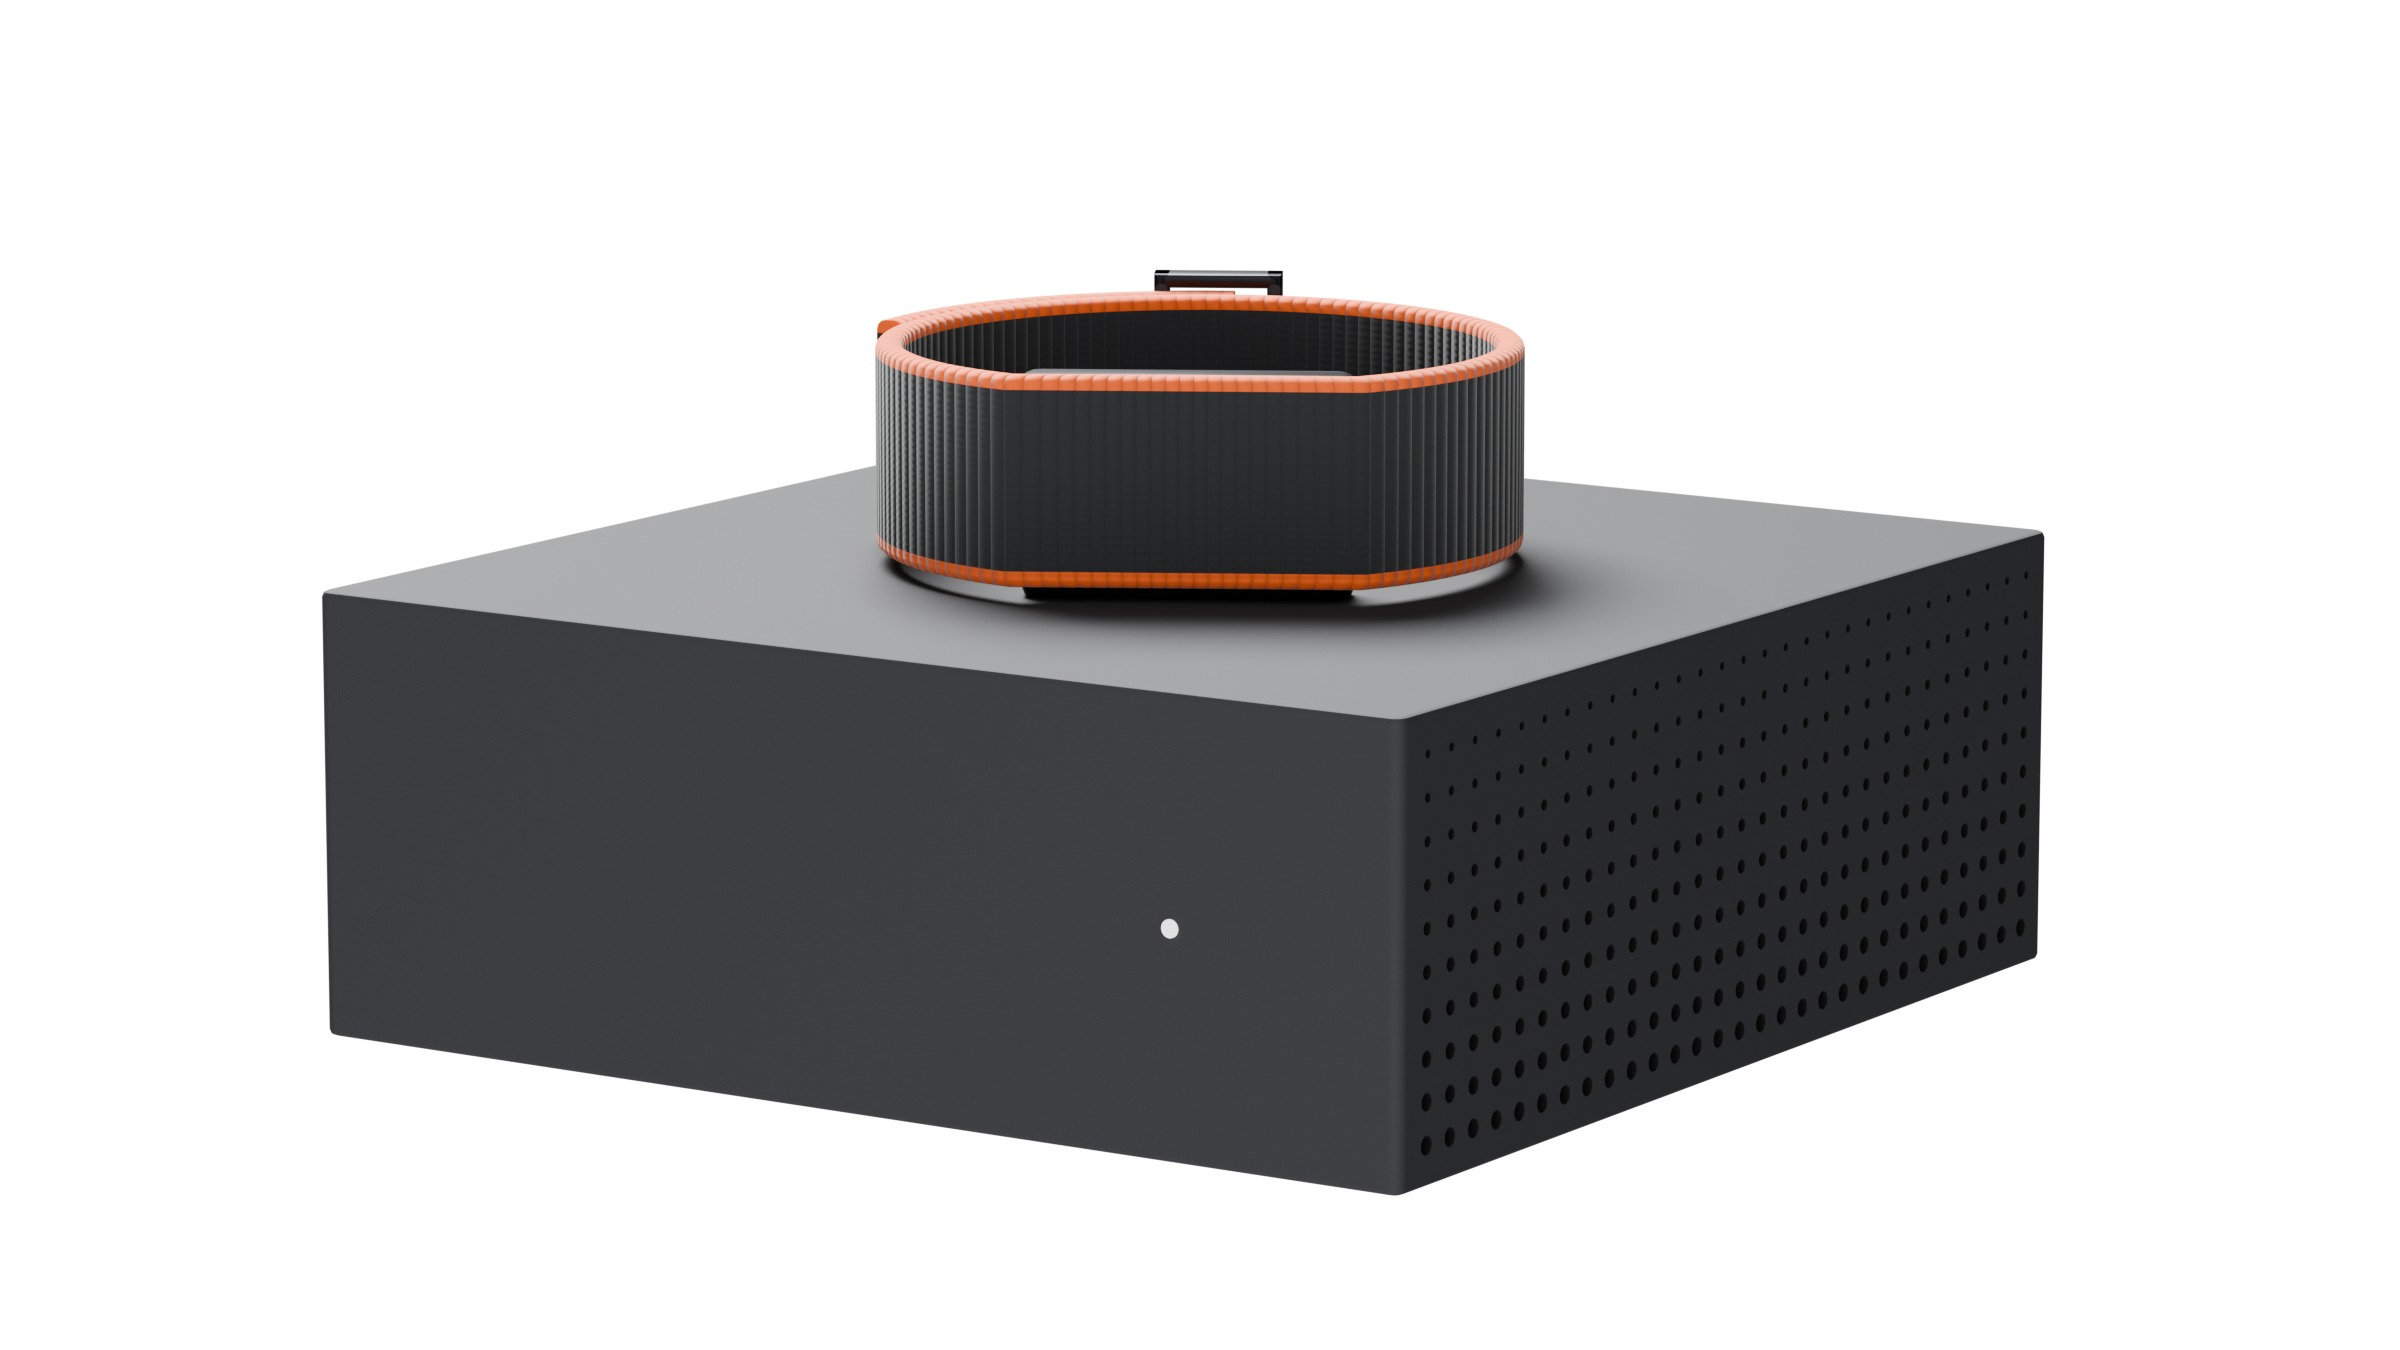
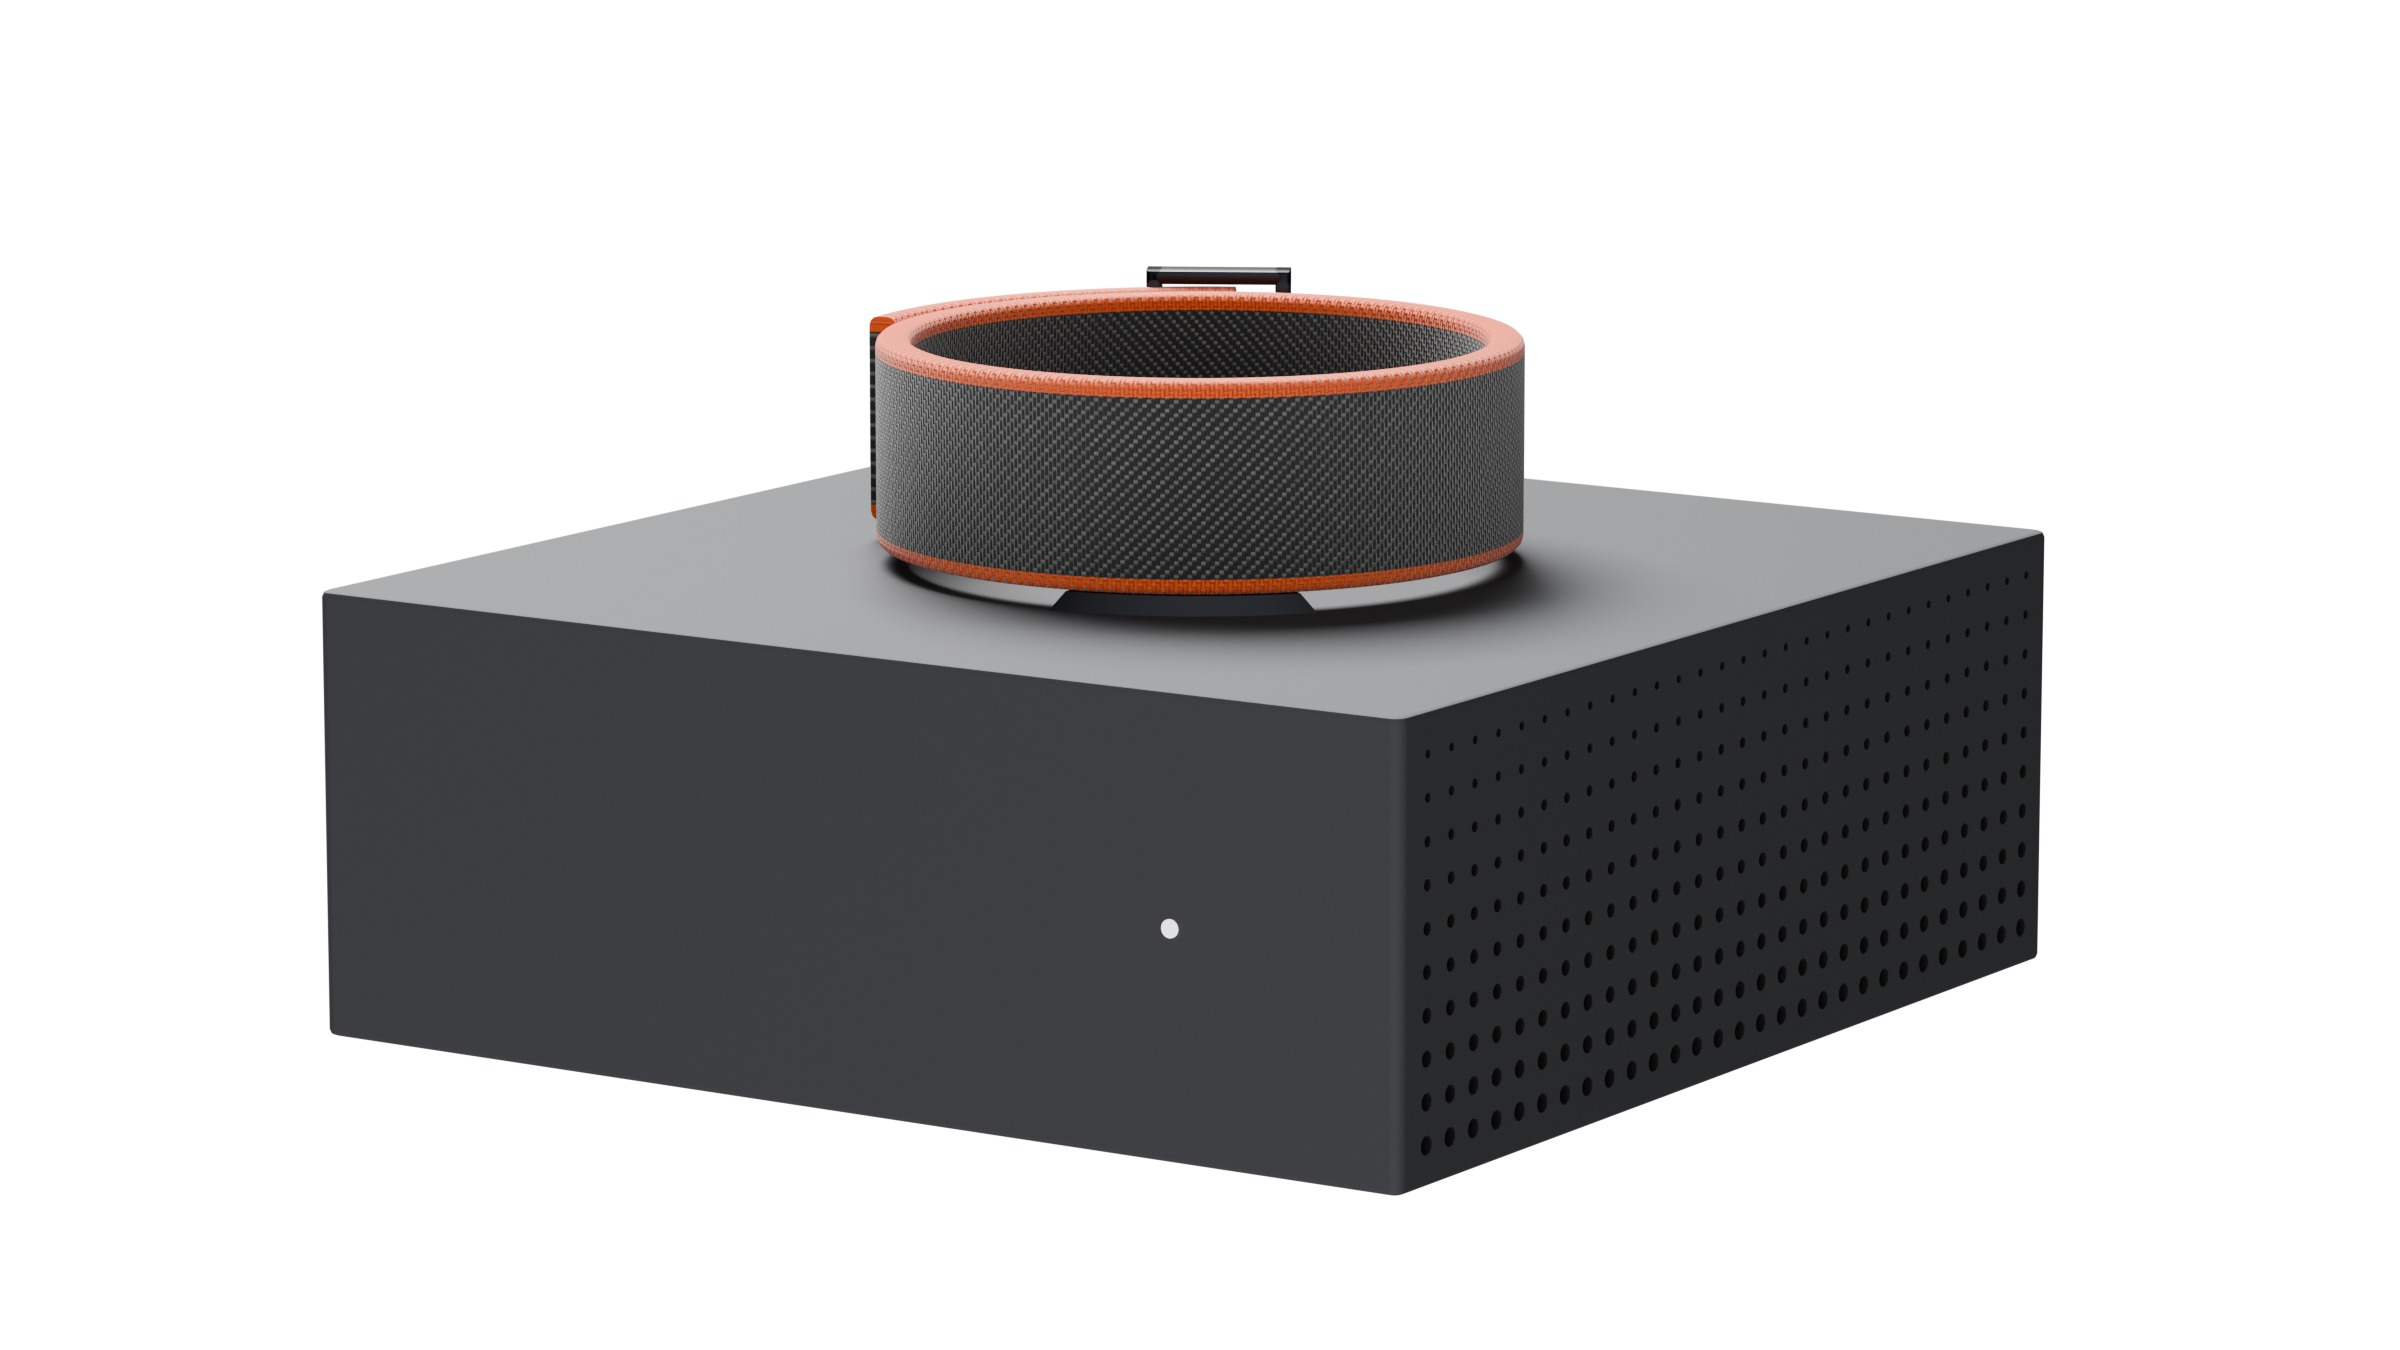
Deck: AuraWake woven twill strap, round loop, flared charging foot

Changed region(s): [[0.3438, 0.1867, 0.6562, 0.4978]]

diff --git a/deck/blender/aura.py b/deck/blender/aura.py
@@ -227,11 +227,14 @@ def fabric(name, color):
     nt.links.new(weave, bp.inputs['Height']); nt.links.new(bp.outputs[0], b.inputs['Normal'])
     return m
 
-def loop_fabric(name, base, edge):
-    """Ribbed woven strap: ribs across the width, a fine knit, the two edges in the accent colour."""
-    m = principled(name, base, rough=0.88); nt = m.node_tree; b = nt.nodes['Principled BSDF']
+def loop_fabric(name, dark, light, edge, R=0.031, h=0.020, lift=0.0018, p=0.00042):
+    """Woven strap, thread by thread: a 2/1 twill (diagonal), warp threads graphite, weft threads melange light grey,
+    each thread rounded in the bump, fibre fuzz, the two edges woven in orange. Coordinates: u along the strap
+    (angle x R), v across it (z)."""
+    m = principled(name, dark, rough=0.9); nt = m.node_tree; b = nt.nodes['Principled BSDF']
     for k in ('Sheen Weight', 'Sheen'):
-        if k in b.inputs: b.inputs[k].default_value = 0.3; break
+        if k in b.inputs: b.inputs[k].default_value = 0.45; break
+    if 'Sheen Roughness' in b.inputs: b.inputs['Sheen Roughness'].default_value = 0.35
     tc = nt.nodes.new('ShaderNodeTexCoord'); P = nt.nodes.new('ShaderNodeSeparateXYZ'); nt.links.new(tc.outputs['Object'], P.inputs[0])
     def op(o, a, c=None):
         n = nt.nodes.new('ShaderNodeMath'); n.operation = o
@@ -240,18 +243,40 @@ def loop_fabric(name, base, edge):
             if isinstance(x, (int, float)): n.inputs[i].default_value = x
             else: nt.links.new(x, n.inputs[i])
         return n.outputs[0]
-    z = P.outputs[2]
-    edge_m = op('MAXIMUM', op('LESS_THAN', z, 0.0031), op('GREATER_THAN', z, 0.0202))
-    mix = nt.nodes.new('ShaderNodeMix'); mix.data_type = 'RGBA'; mix.inputs[6].default_value = base; mix.inputs[7].default_value = edge
-    nt.links.new(edge_m, mix.inputs['Factor']); nt.links.new(mix.outputs[2], b.inputs['Base Color'])
-    ribs = op('ABSOLUTE', op('SINE', op('MULTIPLY', op('ARCTAN2', P.outputs[1], P.outputs[0]), 62.0)))
-    knit = op('MULTIPLY', op('SINE', op('MULTIPLY', z, 9000.0)), 0.04)
-    bp = nt.nodes.new('ShaderNodeBump'); bp.inputs['Strength'].default_value = 0.7; bp.inputs['Distance'].default_value = 0.0005
-    nt.links.new(op('ADD', op('POWER', ribs, 0.5), knit), bp.inputs['Height']); nt.links.new(bp.outputs[0], b.inputs['Normal'])
+    u = op('MULTIPLY', op('ARCTAN2', P.outputs[1], P.outputs[0]), R)
+    v = P.outputs[2]
+    fu, fv = op('DIVIDE', u, p), op('DIVIDE', v, p)
+    iu, iv = op('FLOOR', fu), op('FLOOR', fv)
+    tw = op('FLOORED_MODULO', op('SUBTRACT', iu, iv), 3.0)
+    weft = op('LESS_THAN', tw, 0.5)                       # weft on top in one cell of three, shifted each row: twill
+    ru = op('SINE', op('MULTIPLY', op('FRACT', fu), math.pi))   # thread section, rounded
+    rv = op('SINE', op('MULTIPLY', op('FRACT', fv), math.pi))
+    height = op('ADD', op('MULTIPLY', weft, rv), op('MULTIPLY', op('SUBTRACT', 1.0, weft), ru))
+    nz = nt.nodes.new('ShaderNodeTexNoise'); nz.inputs['Scale'].default_value = 9000.0; nz.inputs['Detail'].default_value = 6
+    nt.links.new(tc.outputs['Object'], nz.inputs['Vector'])
+    h2 = op('ADD', op('POWER', height, 0.6), op('MULTIPLY', nz.outputs['Fac'], 0.25))
+    bp = nt.nodes.new('ShaderNodeBump'); bp.inputs['Strength'].default_value = 0.85; bp.inputs['Distance'].default_value = 0.00025
+    nt.links.new(h2, bp.inputs['Height']); nt.links.new(bp.outputs[0], b.inputs['Normal'])
+    # colour: melange weft (light grey with fibre variation) over graphite warp; orange threads on both edges
+    mel = nt.nodes.new('ShaderNodeMix'); mel.data_type = 'RGBA'; mel.inputs[6].default_value = light
+    mel.inputs[7].default_value = tuple(c * 0.55 for c in light[:3]) + (1,)
+    cell = nt.nodes.new('ShaderNodeCombineXYZ'); nt.links.new(iu, cell.inputs[0]); nt.links.new(iv, cell.inputs[1])
+    vn = nt.nodes.new('ShaderNodeTexWhiteNoise'); vn.noise_dimensions = '3D'; nt.links.new(cell.outputs[0], vn.inputs['Vector'])
+    nt.links.new(op('ADD', op('MULTIPLY', vn.outputs['Value'], 0.7), op('MULTIPLY', nz.outputs['Fac'], 0.3)), mel.inputs['Factor'])
+    col_ = nt.nodes.new('ShaderNodeMix'); col_.data_type = 'RGBA'; col_.inputs[6].default_value = dark
+    nt.links.new(op('MULTIPLY', weft, 0.85), col_.inputs['Factor']); nt.links.new(mel.outputs[2], col_.inputs[7])
+    edge_m = op('MAXIMUM', op('LESS_THAN', v, lift + 0.0015), op('GREATER_THAN', v, lift + h - 0.0015))
+    fin = nt.nodes.new('ShaderNodeMix'); fin.data_type = 'RGBA'; fin.inputs[7].default_value = edge
+    nt.links.new(col_.outputs[2], fin.inputs[6]); nt.links.new(edge_m, fin.inputs['Factor'])
+    shade_ = nt.nodes.new('ShaderNodeMix'); shade_.data_type = 'RGBA'; shade_.blend_type = 'MULTIPLY'; shade_.inputs['Factor'].default_value = 1.0
+    nt.links.new(fin.outputs[2], shade_.inputs[6])
+    sh = nt.nodes.new('ShaderNodeCombineColor'); g = op('ADD', 0.7, op('MULTIPLY', height, 0.3))
+    for k in range(3): nt.links.new(g, sh.inputs[k])
+    nt.links.new(sh.outputs[0], shade_.inputs[7]); nt.links.new(shade_.outputs[2], b.inputs['Base Color'])
     return m
 
 TABLE = SHOT == 'table'
-STUDIO = SHOT in ('persp_band', 'table', 'front', 'back', 'top', 'bottom', 'cable', 'persp', 'lit', 'band', 'persp_back')
+STUDIO = SHOT in ('foot', 'persp_band', 'table', 'front', 'back', 'top', 'bottom', 'cable', 'persp', 'lit', 'band', 'persp_back')
 if MODE == 'real':
     MATS = {
         'body': body_real('body', srgb('#2c2d31')),
@@ -268,7 +293,7 @@ if MODE == 'real':
         'dots': emit('dots', srgb('#ffd9a0'), 7.0),
         'band': principled('band', srgb('#2a2b2f'), rough=0.62),
         'fabric': fabric('fabric', srgb('#1c1d20')),
-        'loop': loop_fabric('loop', srgb('#26272b'), srgb('#e2622a')),
+        'loop': loop_fabric('loop', srgb('#2a2b2f'), srgb('#76746f'), srgb('#d9592a')),
         'modalu': bump_tex(principled('modalu', srgb('#2c2d31'), metal=1.0, rough=0.38), 'noise', 9000, 0.05),
         'cable': bump_tex(principled('cable', srgb('#0e0e10'), rough=0.8), 'wave', 420, 0.5),
         'plug': principled('plug', srgb('#0a0a0b'), rough=0.6),
@@ -509,17 +534,29 @@ def strap_ring(name, R, h, t, z, flat=None, arc=None, n=240, cr=0.0009):
         for ring in (rings[0], rings[-1]): bm.faces.new(ring if ring is rings[-1] else list(reversed(ring)))
     return link(name, bm, 'loop')
 
-def build_bracelet(z0=0.0, R=0.031, h=0.020, t=0.0026, lift=0.0015):
-    """Woven loop strap (owner refs: Sport Loop, graphite with orange edges), closed, lying on its edge as a ring. The
-    sensor pod hides inside the strap and protrudes 1.5 mm below its edge: that small flat face is the magnetic,
-    charging contact on the alarm's top. The strap flattens against the pod; graphite aluminium loop + tail opposite."""
-    ap, D = math.radians(-60), R * 0.84
-    parts = [strap_ring('strap', R, h, t, lift, flat=(ap, D))]
+def foot_bm(R, t, a0, a1, hgt, flare, spread=0.045, n=48):
+    """Charging foot under the strap's lower edge: flush with the inside (nothing touches the wrist), widening slightly
+    outward and along the strap as it goes down, to a flat contact face."""
+    bm = bmesh.new(); rings = []
+    for i in range(n + 1):
+        k = i / n; at = a0 + (a1 - a0) * k; ab = a0 - spread + (a1 - a0 + 2 * spread) * k
+        P = lambda a, r, z: bm.verts.new((r * math.cos(a), r * math.sin(a), z))
+        rings.append([P(at, R - t, hgt), P(at, R, hgt), P(ab, R + flare, 0.0), P(ab, R - t, 0.0)])
+    for i in range(n):
+        A, B = rings[i], rings[i + 1]
+        for q in range(4): bm.faces.new((A[q], A[(q + 1) % 4], B[(q + 1) % 4], B[q]))
+    bm.faces.new(list(reversed(rings[0]))); bm.faces.new(rings[-1])
+    bmesh.ops.recalc_face_normals(bm, faces=bm.faces)
+    return bm
+
+def build_bracelet(z0=0.0, R=0.031, h=0.020, t=0.0034, lift=0.0018):
+    """Woven loop strap (owner refs: Sport Loop), graphite melange with orange edges, closed, resting on its edge. The
+    sensor pod is woven into the strap (no bump inside); only its charging foot shows, under the lower edge."""
+    ap = math.radians(-60)
+    parts = [strap_ring('strap', R, h, t, lift)]
     ad = ap + math.pi
-    parts.append(strap_ring('tail', R + t, h, t, lift, arc=(ad - 0.05, ad + 1.25)))
-    pod = rbox('pod', 0.0056, 0.031, h + lift - 0.0004, 0.0018, 0.0008, 'modalu', (0, 0, 0), sp=6, se=2)
-    pod.location = ((D - t - 0.0029) * math.cos(ap), (D - t - 0.0029) * math.sin(ap), 0); pod.rotation_euler = (0, 0, ap)
-    parts.append(pod)
+    parts.append(strap_ring('tail', R + t, h, t * 0.8, lift, arc=(ad - 0.05, ad + 1.25)))
+    parts.append(link('foot', foot_bm(R, t, ap - 0.36, ap + 0.36, lift, 0.0007), 'modalu'))
     lp = frame('dring', 0.0074 + 2 * t, h + 0.0034, 0.0032, 0.0014, 'modalu', (0, 0, 0))
     e = bpy.data.objects.new('dring', None); col.objects.link(e)
     e.location = ((R + t / 2) * math.cos(ad), (R + t / 2) * math.sin(ad), lift + h / 2); e.rotation_euler = (math.pi / 2, 0, ad + math.pi / 2)
@@ -644,6 +681,9 @@ def studio(view):
     lens = 135
     if view == 'cable':
         build_cable(); fw, tgt, pos = 0.34, (0.115, 0, 0.016), (0.115, -1, 0.016)
+    elif view == 'foot':
+        build_bracelet(); a = math.radians(-60); fw = 0.045
+        tgt = (0.031 * math.cos(a), 0.031 * math.sin(a), 0.004); pos = (0.031 * math.cos(a) * 3.2, 0.031 * math.sin(a) * 3.2, 0.03)
     elif view == 'band':
         build_bracelet(); fw, tgt, pos = 0.13, (0, 0, 0.011), (0.6, -0.9, 0.55)
     elif view in ('persp', 'lit', 'persp_back', 'persp_band'):
@@ -668,7 +708,7 @@ def studio(view):
     area('left', (-0.9, -0.5, 0.15), (0, 0, 0.02), 0.6, 35)
     area('right', (0.9, -0.5, 0.15), (0, 0, 0.02), 0.6, 35)
     area('cam', tuple(Vector(cam.location) * 0.9 + Vector((0, 0, 0.3))), tgt, 1.2, 25)
-    if view in ('persp', 'lit', 'band', 'persp_back', 'persp_band'): area('front', tuple(Vector(cam.location) * 0.8 + Vector((-0.3, 0, 0.2))), tgt, 1.4, 40)
+    if view in ('persp', 'lit', 'band', 'persp_back', 'persp_band', 'foot'): area('front', tuple(Vector(cam.location) * 0.8 + Vector((-0.3, 0, 0.2))), tgt, 1.4, 40)
     if view in ('persp', 'lit'):
         area('topback', (-0.1, 0.9, 0.9), (0, 0, 0.03), 1.6, 45)
         area('sidestrip', (1.0, 0.45, 0.25), (0, 0, 0.02), 0.5, 30)
